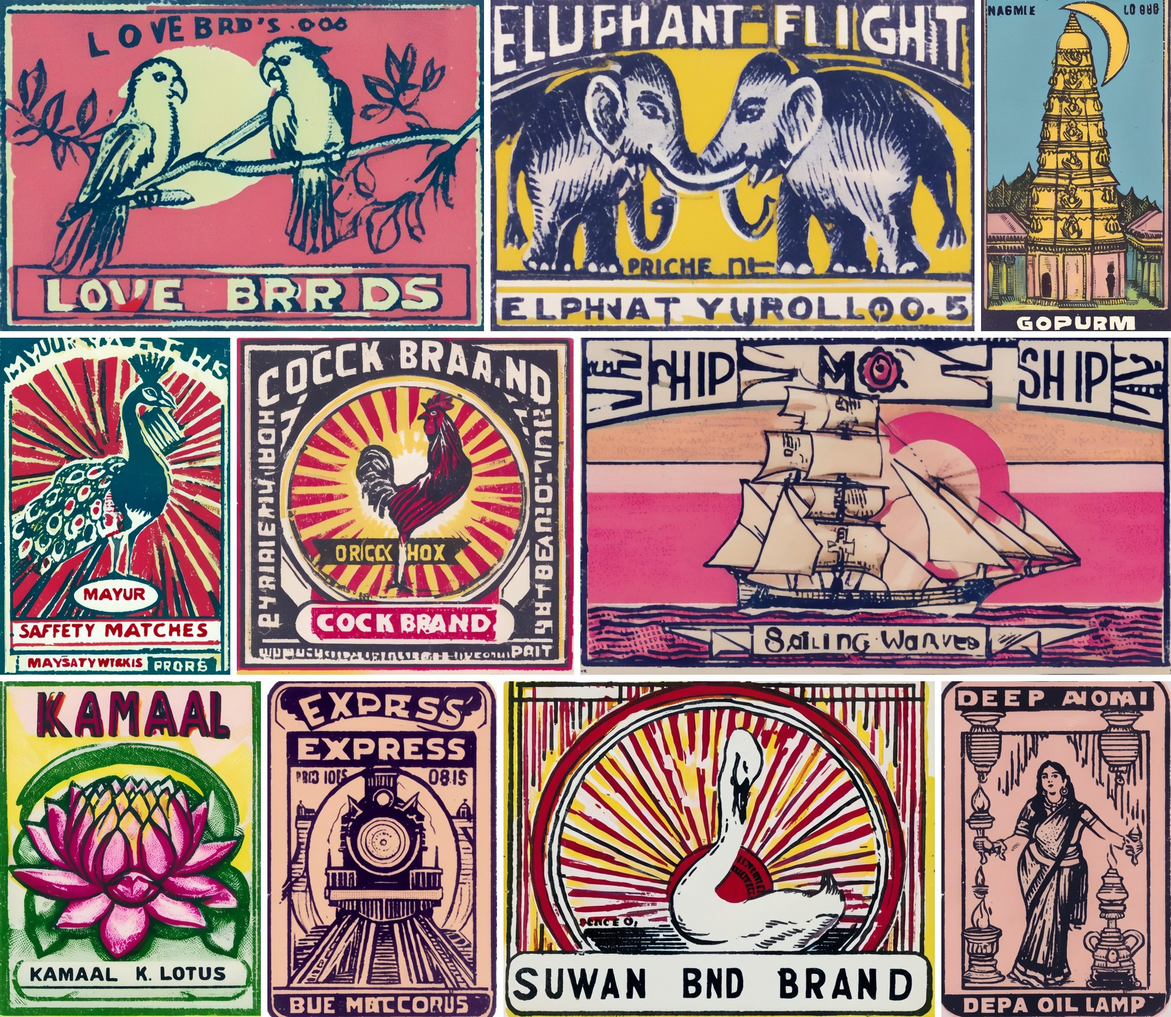
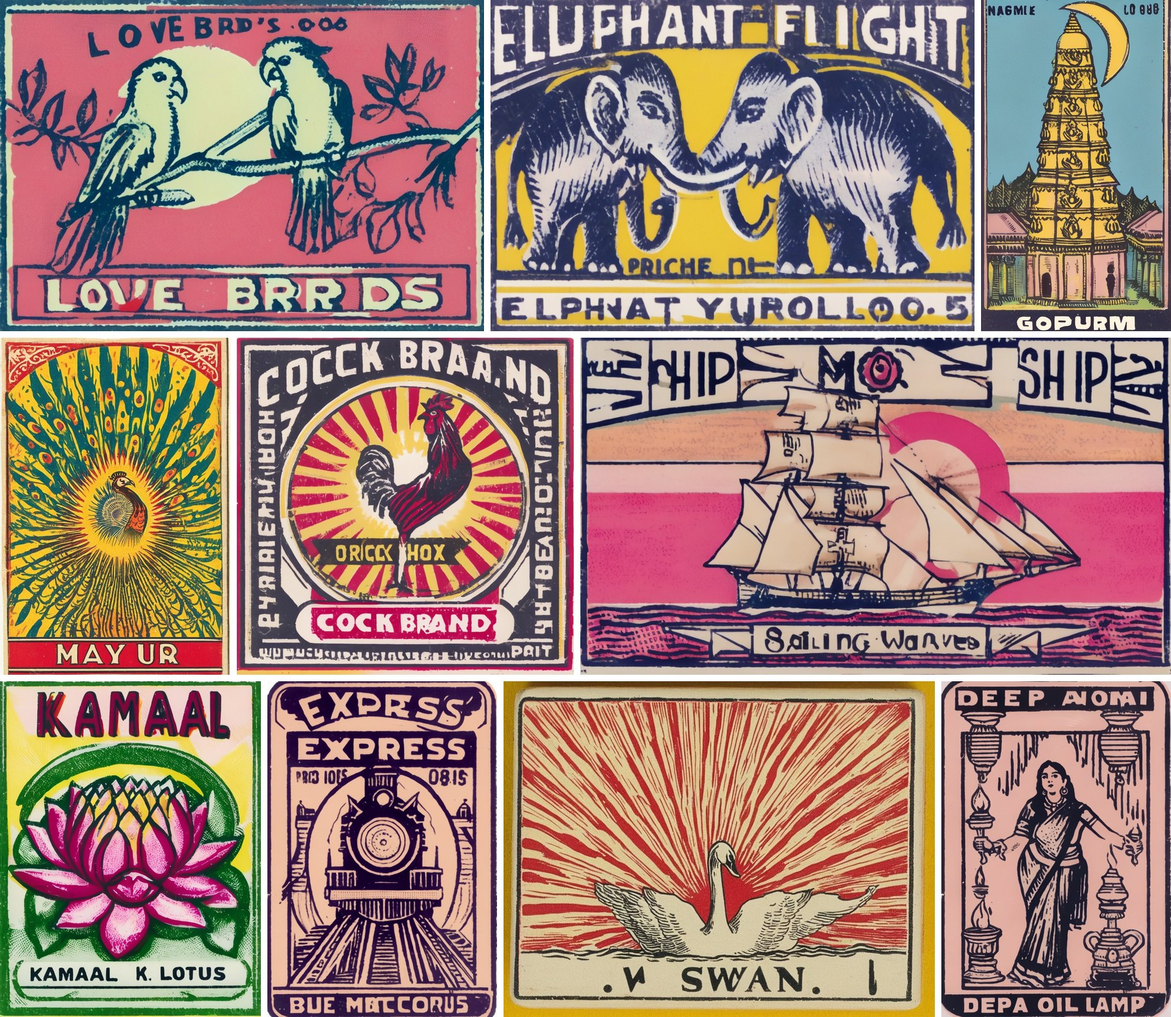
SDXL gallery: swan and peacock from the earlier SDXL run, marked as such

Changed region(s): [[0.4044, 0.6449, 0.8089, 1.0], [0.0, 0.3071, 0.2178, 0.6756]]

diff --git a/README.md b/README.md
@@ -30,6 +30,8 @@ settings of every image are in [`images/image_prompts.json`](images/image_prompt
 
 ![Ten matchbox labels generated by the SDXL LoRA: love birds, elephant fight, gopuram, Mayur peacock, cock brand, sailing ship, Kamal lotus, Express locomotive, swan brand, Deepa oil lamp](images/gallery_55.jpg)
 
+*The peacock (MAYUR) and the swan in this gallery come from an earlier SDXL LoRA run of notebook 55 that was trained on Cooper Hewitt museum prints, whose weights are not published; the other eight images come from the published SDXL LoRA. Each image's run is recorded in [`images/image_prompts.json`](images/image_prompts.json).*
+
 The single images are in [`images/69/`](images/69) and [`images/55/`](images/55).
 
 ---
